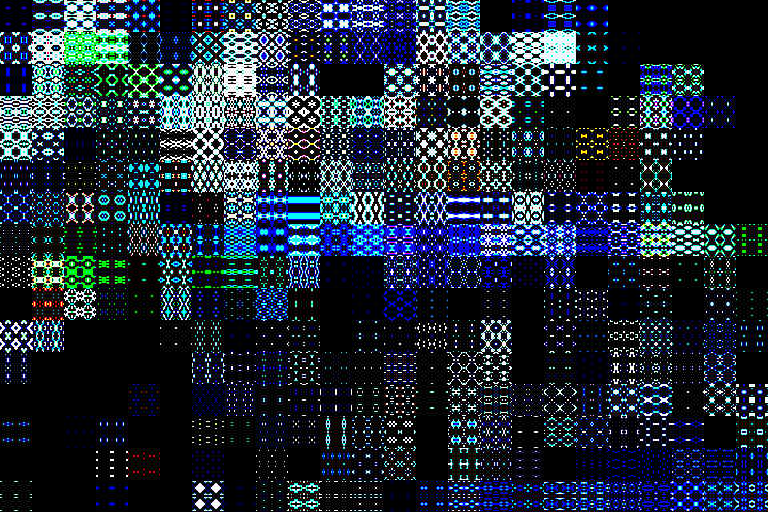
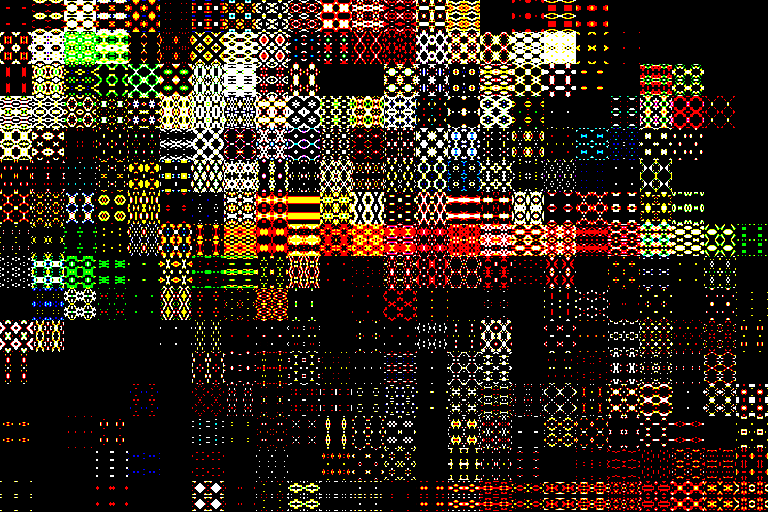
Fix results

diff --git a/generator.py b/generator.py
@@ -17,29 +17,31 @@ if __name__ == '__main__':
         img, dest=os.path.join(src_dir, 'original_crop.png'))
 
     def split_and_downsample(matrix, mode):
-        if mode == 'BGR':
-            mode = 'RGB'
         print("Split {} colors".format(mode))
-        img_channel_a, img_channel_b, img_channel_c = encode.split_to_three_colors(matrix)
+        img_channel_a, img_channel_b, img_channel_c = encode.split_to_three_colors(
+            matrix)
 
         channel_const = np.zeros_like(img_channel_a)
         if mode == 'YCrCb':
-            channel_const = channel_const * 127.5
+            channel_const = channel_const + 127.5
 
         print("Generate {} colors images".format(mode))
 
         imagetools.save_matrix(
-            encode.concatenate_three_colors(img_channel_a, channel_const, channel_const),
+            encode.concatenate_three_colors(img_channel_a, channel_const,
+                                            channel_const),
             mode=mode,
             dest=os.path.join(src_dir, mode + '_channel_a.png'))
 
         imagetools.save_matrix(
-            encode.concatenate_three_colors(channel_const, img_channel_b, channel_const),
+            encode.concatenate_three_colors(channel_const, img_channel_b,
+                                            channel_const),
             mode=mode,
             dest=os.path.join(src_dir, mode + '_channel_b.png'))
 
         imagetools.save_matrix(
-            encode.concatenate_three_colors(channel_const, channel_const, img_channel_c),
+            encode.concatenate_three_colors(channel_const, channel_const,
+                                            img_channel_c),
             mode=mode,
             dest=os.path.join(src_dir, mode + '_channel_c.png'))
 
@@ -48,8 +50,7 @@ if __name__ == '__main__':
         img_channel_c = encode.upsample(encode.downsample(img_channel_c))
 
         imagetools.save_matrix(
-            encode.concatenate_three_colors(img_channel_a,
-                                            img_channel_b,
+            encode.concatenate_three_colors(img_channel_a, img_channel_b,
                                             img_channel_c),
             mode=mode,
             dest=os.path.join(src_dir, mode + '_downsapling.png'))
@@ -58,7 +59,6 @@ if __name__ == '__main__':
     print("bgr_to_ycrcb")
     img = imagetools.bgr_to_ycrcb(img)
     split_and_downsample(img, 'YCrCb')
-
 
     def local_dct(matrix, dst, size=8):
         y, cr, cb = encode.split_to_three_colors(matrix)
@@ -82,52 +82,30 @@ if __name__ == '__main__':
         ]
 
         print("dct submatrices")
-        y = [
-            dct.dct(submatrix) for submatrix in y
-        ]
-        cr = [
-            dct.dct(submatrix) for submatrix in cr
-        ]
-        cb = [
-            dct.dct(submatrix) for submatrix in cb
-        ]
-
+        y = [dct.dct(submatrix) for submatrix in y]
+        cr = [dct.dct(submatrix) for submatrix in cr]
+        cb = [dct.dct(submatrix) for submatrix in cb]
 
         print("Quantization submatrices")
-        y = [
-            dct.quantization(submatrix)
-            for submatrix in y
-        ]
-        cr = [
-            dct.quantization(submatrix)
-            for submatrix in cr
-        ]
-        cb = [
-            dct.quantization(submatrix)
-            for submatrix in cb
-        ]
+        y = [dct.quantization(submatrix) for submatrix in y]
+        cr = [dct.quantization(submatrix) for submatrix in cr]
+        cb = [dct.quantization(submatrix) for submatrix in cb]
 
         print("Invert dct and UnQuantization")
         y = [
-            dct.inverse_dct(dct.un_quantization(submatrix))
-            for submatrix in y
+            dct.inverse_dct(dct.un_quantization(submatrix)) for submatrix in y
         ]
         cr = [
-            dct.inverse_dct(dct.un_quantization(submatrix))
-            for submatrix in cr
+            dct.inverse_dct(dct.un_quantization(submatrix)) for submatrix in cr
         ]
         cb = [
-            dct.inverse_dct(dct.un_quantization(submatrix))
-            for submatrix in cb
+            dct.inverse_dct(dct.un_quantization(submatrix)) for submatrix in cb
         ]
 
         print("Concatenate")
-        y = encode.concatenate_sub_matrices_to_big_matrix(
-            y, y_shape)
-        cr = encode.concatenate_sub_matrices_to_big_matrix(
-            cr, cr_shape)
-        cb = encode.concatenate_sub_matrices_to_big_matrix(
-            cb, cb_shape)
+        y = encode.concatenate_sub_matrices_to_big_matrix(y, y_shape)
+        cr = encode.concatenate_sub_matrices_to_big_matrix(cr, cr_shape)
+        cb = encode.concatenate_sub_matrices_to_big_matrix(cb, cb_shape)
 
         print("Save")
         imagetools.save_matrix(

diff --git a/jpeg/dct.py b/jpeg/dct.py
@@ -37,15 +37,17 @@ def __un_normalize(matrix: np.ndarray):
     return matrix + 128
 
 
+@lru_cache(maxsize=1024)
 def __cos_element(x, u):
     return math.cos((2 * x + 1) * u * math.pi / 16)
 
 
+@lru_cache(maxsize=1024)
 def __alpha(u):
     return 1 / math.sqrt(2) if u == 0 else 1
 
 
-@lru_cache(maxsize=512)
+@lru_cache(maxsize=1024)
 def __g_uv(u, v, matrix: Tuple[tuple]):
     return (1 / 4) * __alpha(u) * __alpha(v) * sum(
         matrix[x][y] * __cos_element(x, u) * __cos_element(y, v)

diff --git a/jpeg/imagetools.py b/jpeg/imagetools.py
@@ -46,9 +46,6 @@ def get_bitmap_from_bmp(path: str) -> np.ndarray:
 def save_matrix(matrix: np.ndarray, mode: str = 'RGB', dest: str = 'tmp.png'):
     if mode == 'YCrCb':
         matrix = ycrcb_to_bgr(matrix)
-        mode = 'BGR'
-    if mode == 'BGR':
-        matrix = cv2.cvtColor(matrix, cv2.COLOR_BGR2RGB)
     cv2.imwrite(dest, matrix)
 
 
